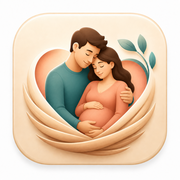
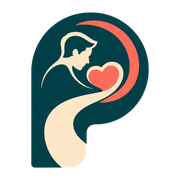
Restore Manus entering page and refresh branding

diff --git a/client/src/pages/SplashScreen.tsx b/client/src/pages/SplashScreen.tsx
@@ -2,8 +2,9 @@ import { useEffect, useState } from "react";
 import { useLocation } from "wouter";
 import { motion, AnimatePresence } from "framer-motion";
 import { ArrowRight } from "lucide-react";
+import { PapaPathMark } from "@/components/PapaPathLogo";
 
-const COUPLE_IMG = "/manus-storage/papapath-couple_680d541c.png";
+const COUPLE_IMG = `${import.meta.env.BASE_URL}assets/manus/papapath-couple_680d541c.png`;
 
 const TEAM_AVATARS = [
   {
@@ -28,7 +29,10 @@ const TEAM_AVATARS = [
   },
 ];
 
-// Decorative SVG leaf branch
+type SplashScreenProps = {
+  onDone?: () => void;
+};
+
 function LeafBranch({ flip = false }: { flip?: boolean }) {
   return (
     <svg
@@ -46,45 +50,23 @@ function LeafBranch({ flip = false }: { flip?: boolean }) {
   );
 }
 
-// PapaPath logo mark SVG
-function LogoMark() {
-  return (
-    <div className="relative flex items-center justify-center">
-      <svg width="80" height="90" viewBox="0 0 80 90" fill="none">
-        <path
-          d="M10 85 L10 40 Q10 10 40 10 Q70 10 70 40 L70 85"
-          stroke="#c8a87a"
-          strokeWidth="1.5"
-          fill="none"
-        />
-        <path
-          d="M18 85 L18 42 Q18 18 40 18 Q62 18 62 42 L62 85"
-          stroke="#e8c89a"
-          strokeWidth="0.8"
-          fill="none"
-          opacity="0.5"
-        />
-        <ellipse cx="40" cy="38" rx="7" ry="7" fill="#3a5a3a" />
-        <path d="M33 45 Q30 58 32 70 L48 70 Q50 58 47 45 Z" fill="#3a5a3a" />
-        <ellipse cx="44" cy="60" rx="8" ry="7" fill="#3a5a3a" />
-        <circle cx="44" cy="60" r="3.5" fill="#d4784a" />
-        <path d="M44 45 Q52 38 48 32 Q42 36 44 45 Z" fill="#5a8a5a" />
-      </svg>
-    </div>
-  );
-}
-
-export default function SplashScreen() {
+export default function SplashScreen({ onDone }: SplashScreenProps) {
   const [, navigate] = useLocation();
   const [ready, setReady] = useState(false);
 
   useEffect(() => {
-    const t = setTimeout(() => setReady(true), 100);
-    return () => clearTimeout(t);
+    const timer = window.setTimeout(() => setReady(true), 100);
+    return () => window.clearTimeout(timer);
   }, []);
 
   const handleGetStarted = () => {
     sessionStorage.setItem("splash_seen", "1");
+
+    if (onDone) {
+      onDone();
+      return;
+    }
+
     navigate("/");
   };
 
@@ -96,7 +78,6 @@ export default function SplashScreen() {
         fontFamily: "'DM Serif Display', Georgia, serif",
       }}
     >
-      {/* Decorative blobs */}
       <div
         className="absolute top-0 right-0 w-40 h-40 rounded-full opacity-30 pointer-events-none"
         style={{ background: "radial-gradient(circle, #d4c4a8 0%, transparent 70%)", transform: "translate(30%, -30%)" }}
@@ -106,7 +87,6 @@ export default function SplashScreen() {
         style={{ background: "radial-gradient(circle, #c8b898 0%, transparent 70%)", transform: "translate(-40%, 0)" }}
       />
 
-      {/* ── Logo + Title ── */}
       <AnimatePresence>
         {ready && (
           <motion.div
@@ -117,7 +97,9 @@ export default function SplashScreen() {
           >
             <div className="flex items-center gap-1 mb-1">
               <LeafBranch />
-              <LogoMark />
+              <div style={{ filter: "drop-shadow(0 8px 14px rgba(60, 40, 20, 0.12))" }}>
+                <PapaPathMark className="h-20 w-20" />
+              </div>
               <LeafBranch flip />
             </div>
 
@@ -143,14 +125,12 @@ export default function SplashScreen() {
         )}
       </AnimatePresence>
 
-      {/* ── Hero couple image ── */}
       <motion.div
         className="relative z-10 flex items-end justify-center mt-4"
         initial={{ opacity: 0, scale: 0.95 }}
         animate={{ opacity: ready ? 1 : 0, scale: ready ? 1 : 0.95 }}
         transition={{ delay: 0.3, duration: 0.7, ease: [0.23, 1, 0.32, 1] }}
       >
-        {/* Soft oval platform */}
         <div
           className="absolute bottom-0 left-1/2 -translate-x-1/2 rounded-full"
           style={{ width: 260, height: 80, background: "rgba(255,255,255,0.55)", filter: "blur(3px)" }}
@@ -163,7 +143,6 @@ export default function SplashScreen() {
         />
       </motion.div>
 
-      {/* ── Get started button ── */}
       <motion.div
         className="w-full max-w-sm px-6 pt-6 pb-4 z-10"
         initial={{ opacity: 0, y: 20 }}
@@ -184,7 +163,6 @@ export default function SplashScreen() {
         </button>
       </motion.div>
 
-      {/* ── Design team ── */}
       <motion.div
         className="w-full max-w-sm px-6 pb-10 z-10"
         initial={{ opacity: 0 }}
@@ -200,15 +178,14 @@ export default function SplashScreen() {
         </div>
 
         <div className="grid grid-cols-4 gap-3">
-          {TEAM_AVATARS.map((member, i) => (
+          {TEAM_AVATARS.map((member, index) => (
             <motion.div
               key={member.name}
               className="flex flex-col items-center gap-1.5"
               initial={{ opacity: 0, y: 12 }}
               animate={{ opacity: ready ? 1 : 0, y: ready ? 0 : 12 }}
-              transition={{ delay: 1.0 + i * 0.08, duration: 0.45, ease: [0.23, 1, 0.32, 1] }}
+              transition={{ delay: 1.0 + index * 0.08, duration: 0.45, ease: [0.23, 1, 0.32, 1] }}
             >
-              {/* Avatar circle */}
               <div
                 className="rounded-full overflow-hidden shadow-md"
                 style={{
@@ -224,7 +201,6 @@ export default function SplashScreen() {
                   className="w-full h-full object-cover object-top"
                 />
               </div>
-
             </motion.div>
           ))}
         </div>

diff --git a/client/src/lib/communityData.ts b/client/src/lib/communityData.ts
@@ -3,26 +3,28 @@
  */
 
 // ─── Image Map ────────────────────────────────────────────────────────────────
+const MANUS_ASSET_BASE = `${import.meta.env.BASE_URL}assets/manus/`;
+
 export const COMMUNITY_IMAGES = {
-  hero_dad_forum: "/manus-storage/hero-dad-forum_3f878bbf.jpg",
-  hero_dad_hub: "/manus-storage/hero-dad-hub_778155a5.jpg",
-  article_sleep: "/manus-storage/art-massage_f900a579.jpg",
-  article_anxiety: "/manus-storage/art-emotions_cc1f2d1f.jpg",
-  article_labor: "/manus-storage/art-birth-plan_9cdf80e7.jpg",
-  banner_hospital: "/manus-storage/banner-hospital_9fe0f518.jpg",
-  library_books: "/manus-storage/library-books_8bc5af26.jpg",
-  banner_communication: "/manus-storage/banner-communication_a8926c4e.jpg",
-  banner_emotional: "/manus-storage/banner-emotional_5cb0d012.jpg",
-  banner_practical: "/manus-storage/banner-practical_c0966f2b.jpg",
-  art_fetal_kick: "/manus-storage/art-fetal-kick_eb4e898d.jpg",
-  art_birth_plan: "/manus-storage/art-birth-plan_9cdf80e7.jpg",
-  art_massage: "/manus-storage/art-massage_f900a579.jpg",
-  art_hospital_bag: "/manus-storage/art-hospital-bag_46a7fd31.jpg",
-  art_breathing: "/manus-storage/art-breathing_40edfa50.jpg",
-  art_communication: "/manus-storage/art-communication_90411e4b.jpg",
-  art_nutrition: "/manus-storage/art-nutrition_87e071fc.jpg",
-  art_emotions: "/manus-storage/art-emotions_cc1f2d1f.jpg",
-  art_checklist: "/manus-storage/art-checklist_2be10aed.jpg",
+  hero_dad_forum: `${MANUS_ASSET_BASE}hero-dad-forum_3f878bbf.jpg`,
+  hero_dad_hub: `${MANUS_ASSET_BASE}hero-dad-hub_778155a5.jpg`,
+  article_sleep: `${MANUS_ASSET_BASE}art-massage_f900a579.jpg`,
+  article_anxiety: `${MANUS_ASSET_BASE}art-emotions_cc1f2d1f.jpg`,
+  article_labor: `${MANUS_ASSET_BASE}art-birth-plan_9cdf80e7.jpg`,
+  banner_hospital: `${MANUS_ASSET_BASE}banner-hospital_9fe0f518.jpg`,
+  library_books: `${MANUS_ASSET_BASE}library-books_8bc5af26.jpg`,
+  banner_communication: `${MANUS_ASSET_BASE}banner-communication_a8926c4e.jpg`,
+  banner_emotional: `${MANUS_ASSET_BASE}banner-emotional_5cb0d012.jpg`,
+  banner_practical: `${MANUS_ASSET_BASE}banner-practical_c0966f2b.jpg`,
+  art_fetal_kick: `${MANUS_ASSET_BASE}art-fetal-kick_eb4e898d.jpg`,
+  art_birth_plan: `${MANUS_ASSET_BASE}art-birth-plan_9cdf80e7.jpg`,
+  art_massage: `${MANUS_ASSET_BASE}art-massage_f900a579.jpg`,
+  art_hospital_bag: `${MANUS_ASSET_BASE}art-hospital-bag_46a7fd31.jpg`,
+  art_breathing: `${MANUS_ASSET_BASE}art-breathing_40edfa50.jpg`,
+  art_communication: `${MANUS_ASSET_BASE}art-communication_90411e4b.jpg`,
+  art_nutrition: `${MANUS_ASSET_BASE}art-nutrition_87e071fc.jpg`,
+  art_emotions: `${MANUS_ASSET_BASE}art-emotions_cc1f2d1f.jpg`,
+  art_checklist: `${MANUS_ASSET_BASE}art-checklist_2be10aed.jpg`,
 };
 
 // ─── Forum Posts ──────────────────────────────────────────────────────────────

diff --git a/client/src/App.tsx b/client/src/App.tsx
@@ -2,7 +2,7 @@ import { Toaster } from "@/components/ui/sonner";
 import { TooltipProvider } from "@/components/ui/tooltip";
 import NotFound from "@/pages/NotFound";
 import { Route, Router as WouterRouter, Switch, useLocation } from "wouter";
-import { useEffect } from "react";
+import { useEffect, useState } from "react";
 import ErrorBoundary from "./components/ErrorBoundary";
 import { ThemeProvider } from "./contexts/ThemeContext";
 import { CareProvider } from "./contexts/CareContext";
@@ -26,27 +26,31 @@ import PostDetail from "./pages/PostDetail";
 import Settings from "./pages/Settings";
 import SplashScreen from "./pages/SplashScreen";
 
-/** Redirect to /splash on first visit of each session */
-function SplashRedirect() {
-  const [location, navigate] = useLocation();
+function Router() {
+  const [location] = useLocation();
+  const [showSplash, setShowSplash] = useState(() => {
+    try {
+      return window.location.pathname.endsWith("/") && !sessionStorage.getItem("splash_seen");
+    } catch {
+      return false;
+    }
+  });
+
   useEffect(() => {
-    if (import.meta.env.BASE_URL !== "/") {
+    if (location !== "/") {
+      setShowSplash(false);
       return;
     }
 
-    // Only redirect when landing on root path and splash hasn't been seen yet
-    if (location === "/" && !sessionStorage.getItem("splash_seen")) {
-      navigate("/splash", { replace: true });
-    }
-  }, []); // eslint-disable-line react-hooks/exhaustive-deps
-  return null;
-}
+    setShowSplash(!sessionStorage.getItem("splash_seen"));
+  }, [location]);
 
-function Router() {
+  if (showSplash) {
+    return <SplashScreen onDone={() => setShowSplash(false)} />;
+  }
+
   return (
-    <>
-      <SplashRedirect />
-      <Switch>
+    <Switch>
       <Route path={"/splash"} component={SplashScreen} />
       <Route path={"/"} component={Home} />
       <Route path={"/mom-status"} component={MomStatusPage} />
@@ -73,7 +77,6 @@ function Router() {
       {/* Final fallback route */}
       <Route component={NotFound} />
     </Switch>
-    </>
   );
 }
 

diff --git a/client/src/components/PapaPathLogo.tsx b/client/src/components/PapaPathLogo.tsx
@@ -1,0 +1,16 @@
+type PapaPathMarkProps = {
+  className?: string;
+};
+
+const papapathMarkSrc = `${import.meta.env.BASE_URL}assets/papapath-mark.png`;
+
+export function PapaPathMark({ className = "h-10 w-10" }: PapaPathMarkProps) {
+  return (
+    <img
+      src={papapathMarkSrc}
+      alt="PapaPath"
+      className={`object-contain ${className}`}
+      draggable={false}
+    />
+  );
+}

diff --git a/client/src/components/SidebarNav.tsx b/client/src/components/SidebarNav.tsx
@@ -4,11 +4,12 @@
  * 4 sections: Home, Dad Community, Mom Status, Medical Support
  */
 
-import { Home, Users, Heart, ShieldPlus, Baby } from "lucide-react";
+import { Home, Users, Heart, ShieldPlus } from "lucide-react";
 import { toast } from "sonner";
 import { useLocation } from "wouter";
 import { usePregnancy } from "@/hooks/usePregnancy";
 import { getTrimesterName } from "@/lib/pregnancyData";
+import { PapaPathMark } from "@/components/PapaPathLogo";
 
 const navItems = [
   { id: "home", label: "Home", icon: Home, path: "/" },
@@ -73,10 +74,10 @@ export default function SidebarNav() {
       {/* Logo / Brand */}
       <div className="flex items-center gap-3 px-6 py-6 border-b" style={{ borderColor: "oklch(0.90 0.018 80)" }}>
         <div
-          className="w-9 h-9 rounded-xl flex items-center justify-center"
-          style={{ background: "oklch(0.52 0.09 188)" }}
+          className="w-10 h-10 flex items-center justify-center"
+          style={{ filter: "drop-shadow(0 4px 8px rgba(11, 86, 92, 0.16))" }}
         >
-          <Baby className="w-5 h-5 text-white" />
+          <PapaPathMark className="h-10 w-10" />
         </div>
         <div>
           <div